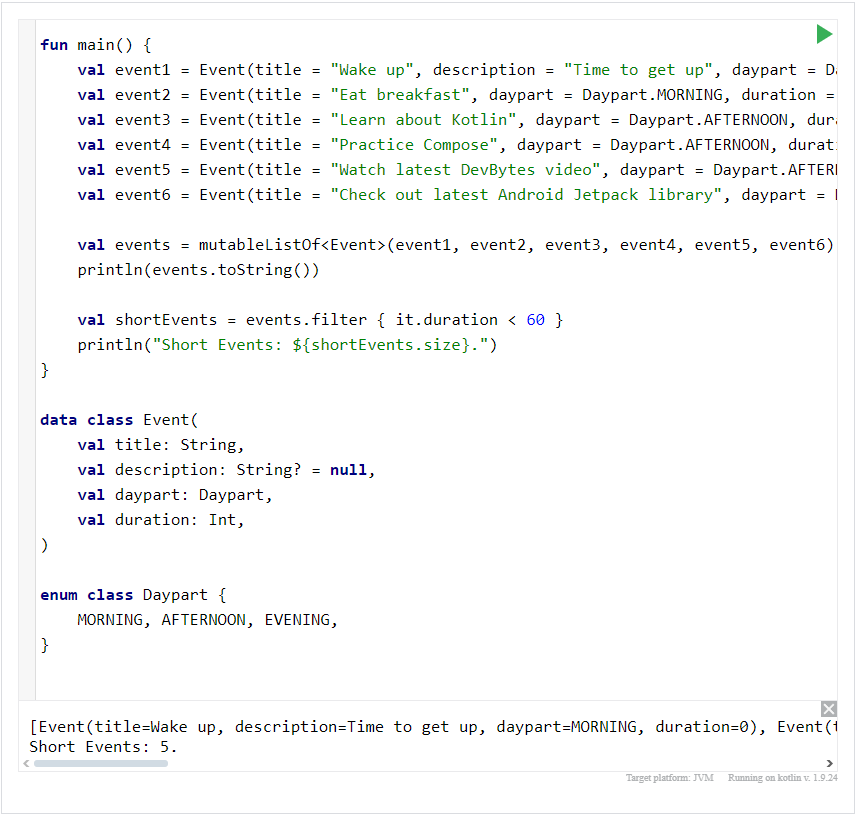
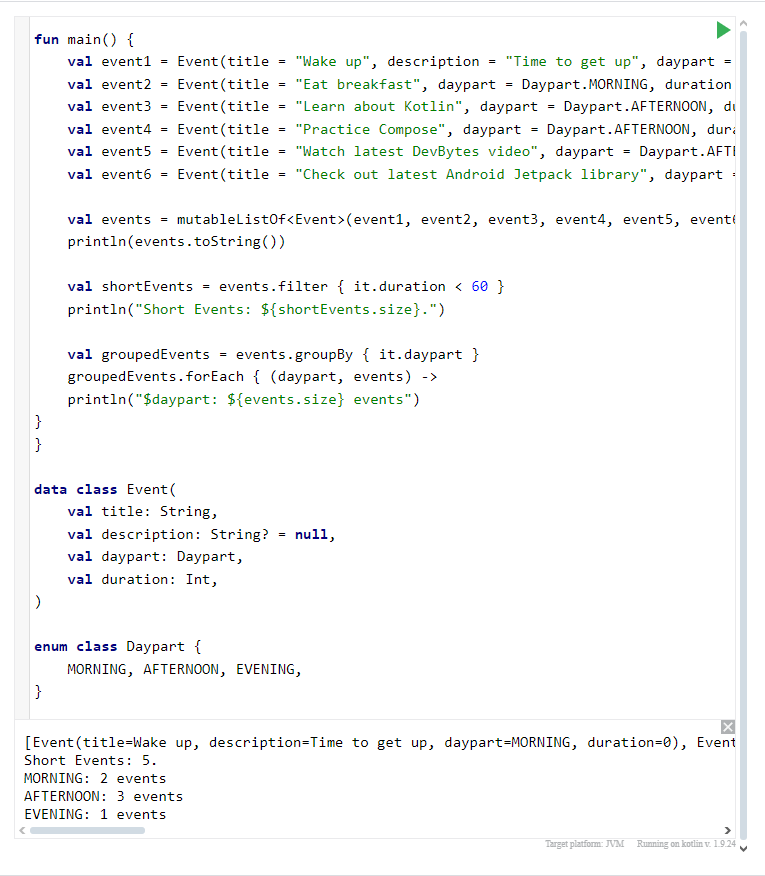
exercicio05

diff --git a/exercicio05.kt b/exercicio05.kt
@@ -11,6 +11,11 @@ fun main() {
 
     val shortEvents = events.filter { it.duration < 60 }
     println("Short Events: ${shortEvents.size}.")
+
+    val groupedEvents = events.groupBy { it.daypart }
+    groupedEvents.forEach { (daypart, events) ->
+    println("$daypart: ${events.size} events")
+}
 }
 
 data class Event(
@@ -29,5 +34,8 @@ enum class Daypart {
 Resultado:
 [Event(title=Wake up, description=Time to get up, daypart=MORNING, duration=0), Event(title=Eat breakfast, description=null, daypart=MORNING, duration=15), Event(title=Learn about Kotlin, description=null, daypart=AFTERNOON, duration=30), Event(title=Practice Compose, description=null, daypart=AFTERNOON, duration=60), Event(title=Watch latest DevBytes video, description=null, daypart=AFTERNOON, duration=10), Event(title=Check out latest Android Jetpack library, description=null, daypart=EVENING, duration=45)]
 Short Events: 5.
+MORNING: 2 events
+AFTERNOON: 3 events
+EVENING: 1 events
 
 */
